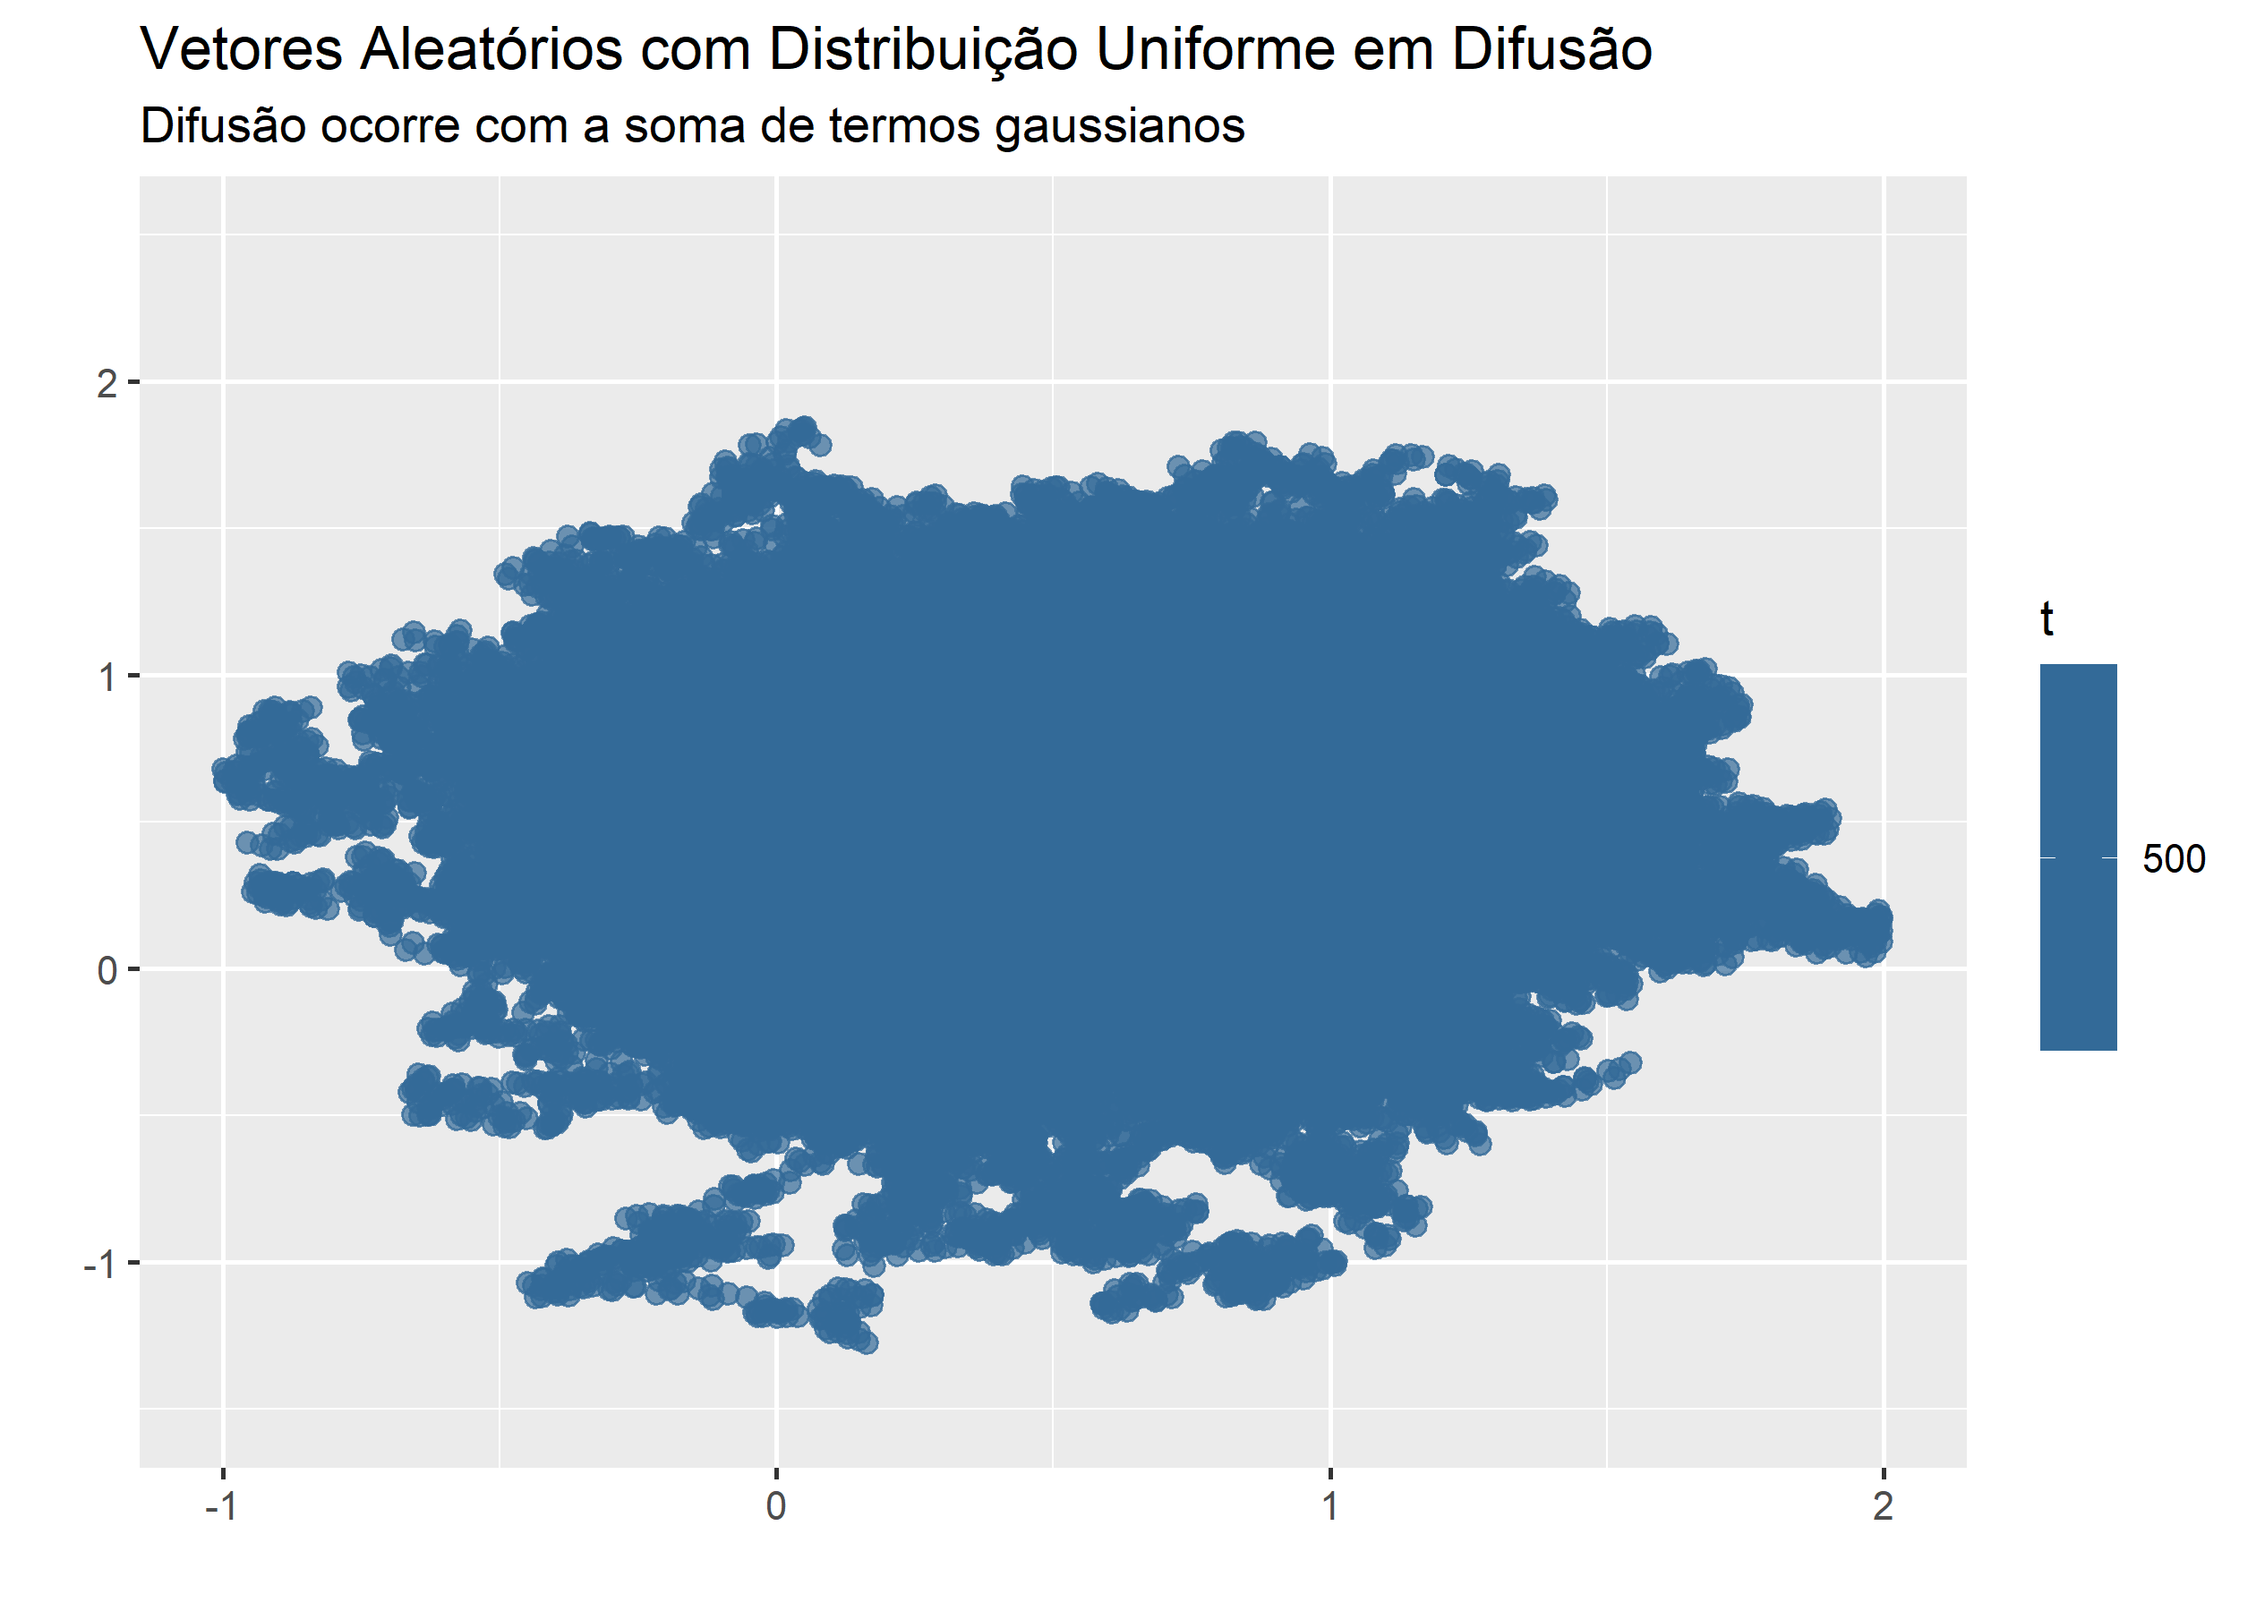
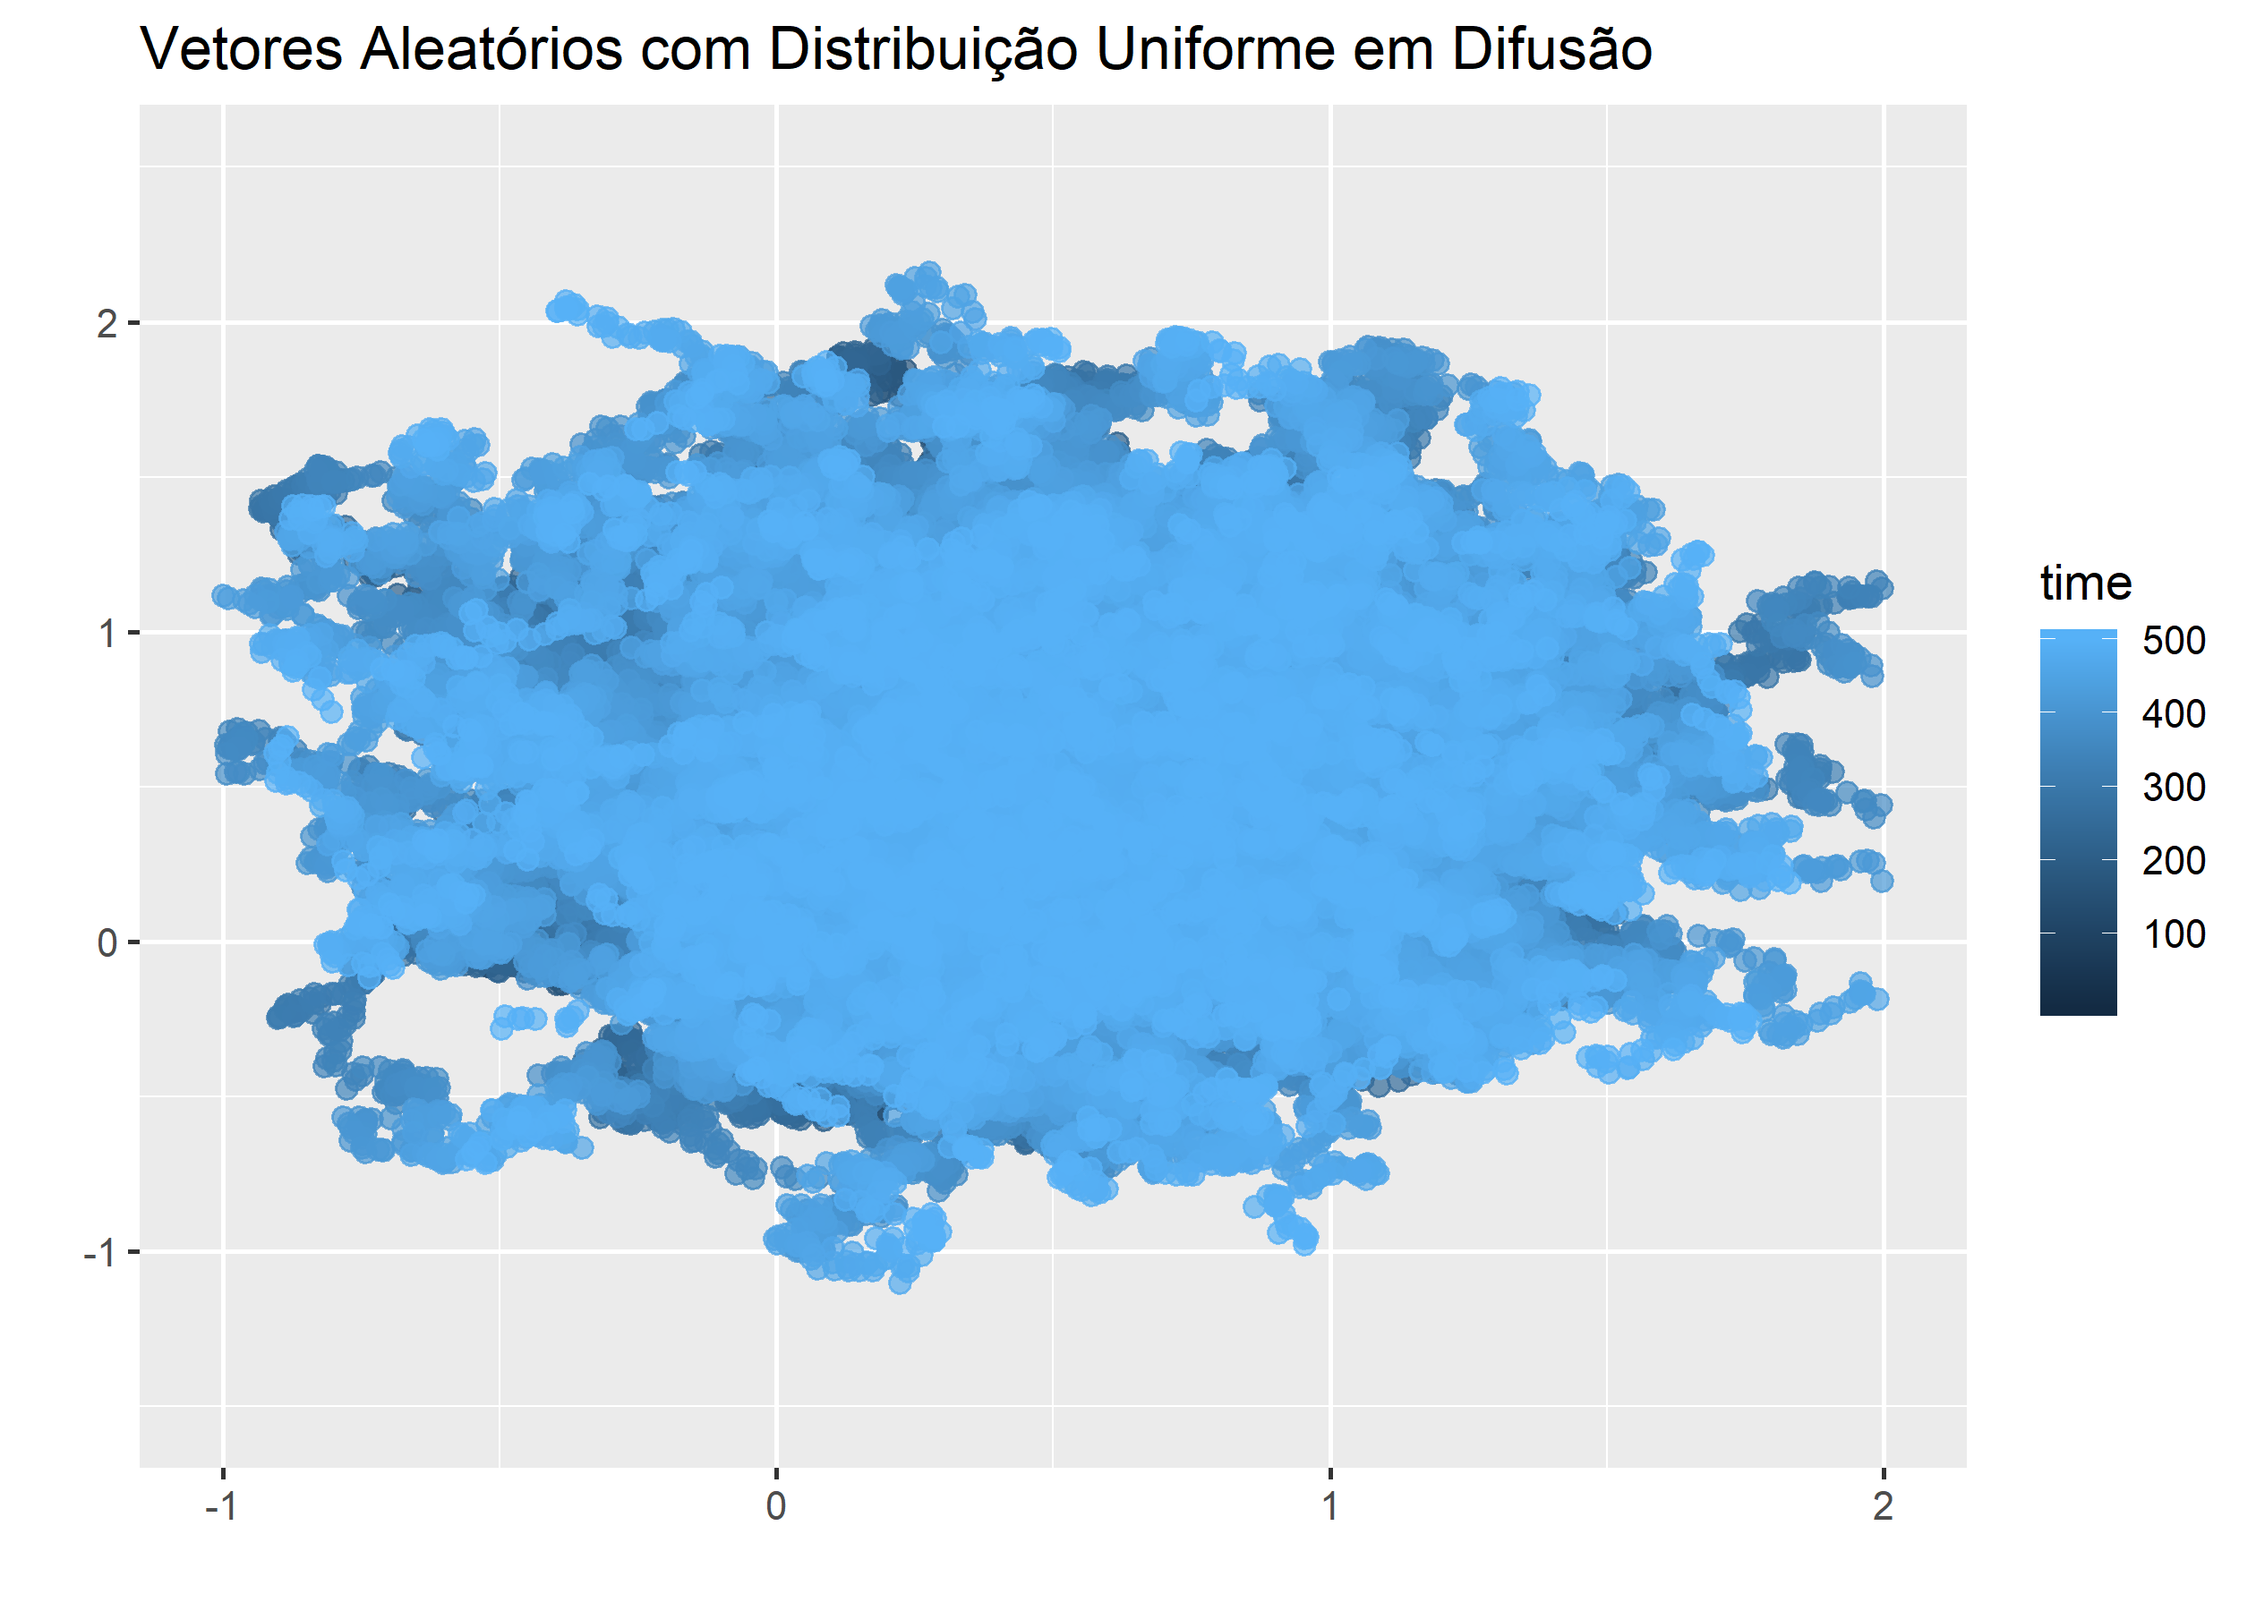
fix post

diff --git a/content/post/randomWalkEmDoisD/randomWalksEm2D.html b/content/post/randomWalkEmDoisD/randomWalksEm2D.html
@@ -6,8 +6,8 @@ output:
   html_document:
     df_print: paged
   pdf_document: default
-katex: yes
-draft: no 
+katex: true
+draft: false
 categories:
 - R
 - Estatística
@@ -23,7 +23,8 @@ authors: ["pedrocava"]
 
 
 
-<p>Dia desses eu fui informado por um amigo de que um padrão bonitinho de difusão acontece somando um termo gaussiano acumuladamente a um conjunto. O que o amigo versado em Física me relatou como um “padrão de difusão”, na minha intuição mais econométrica vem como uma random walk no <span class="math inline">\(\mathbb{R}^2\)</span>. Bem, vamos usar o <code>purrr</code> e o <code>dplyr</code> para gerar de maneira concisa um <code>tibble</code> pronto para ser passado ao <code>ggplot2</code>.</p>
+<p>Dia desses eu fui informado por um amigo de que um padrão bonitinho de difusão acontece somando um termo gaussiano acumuladamente a um conjunto. O que o amigo versado em Física me relatou como um “padrão de difusão”, na minha intuição mais econométrica vem como uma random walk no <span class="math inline">\(\mathbb{R}^2\)</span>.</p>
+<p>Bem, vamos usar o <code>purrr</code> e o <code>dplyr</code> para gerar de maneira concisa um <code>tibble</code> pronto para ser passado ao <code>ggplot2</code>. A parte mais interessante desse post é mostrar como a abordagem funcional gera código mais compreensível. Compare o código deste post com os do Teorema de Perron-Frobenius, que se baiseam em iteração, por exemplo.</p>
 <p>Geraremos um conjunto de vetores representando a random walk, que por simplicidade terá os choques independentes. Matematicamente temos uma operação de aplicação acumulada de uma soma em uma sequência de matrizes. Teremos um conjunto de matrizes <span class="math inline">\(\Lambda\)</span>, começamos com <span class="math inline">\(\Lmabda_1 = A\)</span>, onde <span class="math inline">\(A_{ij} \sim U(a, b)\)</span> e a partir daí:</p>
 <p><span class="math display">\[
 \Lambda_{ \, i \, &gt; \, 1} := B\,\Lambda_{i-1}, \\
@@ -52,12 +53,11 @@ data &lt;- accumulate(rep(dataList, t),
   mutate(time = sort(rep(1:n, t)), # adiciona um termo de passagem do &quot;tempo&quot;
          walk = factor(rep(1:n, t)))  # identifica a caminhada</code></pre>
 <pre class="r"><code>data %&gt;%
-  ggplot(aes(x = x, y = y, color = t)) +
+  ggplot(aes(x = x, y = y, color = time)) +
   geom_point(size = 2, alpha = .7) +
   lims(x = c(-1, 2),
        y = c(-1.5, 2.5)) +
   labs(title = &quot;Vetores Aleatórios com Distribuição Uniforme em Difusão&quot;,
-       subtitle = &quot;Difusão ocorre com a soma de termos gaussianos&quot;,
        x = &quot;&quot;,
        y = &quot;&quot;)</code></pre>
 <p><img src="/post/randomWalkEmDoisD/randomWalksEm2D_files/figure-html/unnamed-chunk-2-1.png" width="1260" /></p>
@@ -75,13 +75,12 @@ data &lt;- accumulate(rep(dataList, t),
 <p><img src="/post/randomWalkEmDoisD/randomWalksEm2D_files/figure-html/unnamed-chunk-3-1.gif" /><!-- --></p>
 <pre class="r"><code>data %&gt;%
   ggplot(aes(x = x, y = y)) +
-  geom_point(size = 2) +
+  geom_point(size = 2, color = &quot;light blue&quot;) +
   lims(x = c(-1, 2),
        y = c(-1.5, 2.5)) +
   labs(title = &quot;Vetores Aleatórios com Distribuição Uniforme em Difusão&quot;,
-       subtitle = &quot;Difusão ocorre com a soma de termos gaussianos&quot;,
+       subtitle = &quot;Caminhadas individuais&quot;,
        x = &quot;&quot;,
        y = &quot;&quot;) +
-  transition_states(walk) +
-  shadow_trail()</code></pre>
+  transition_states(walk)</code></pre>
 <p><img src="/post/randomWalkEmDoisD/randomWalksEm2D_files/figure-html/unnamed-chunk-4-1.gif" /><!-- --></p>
